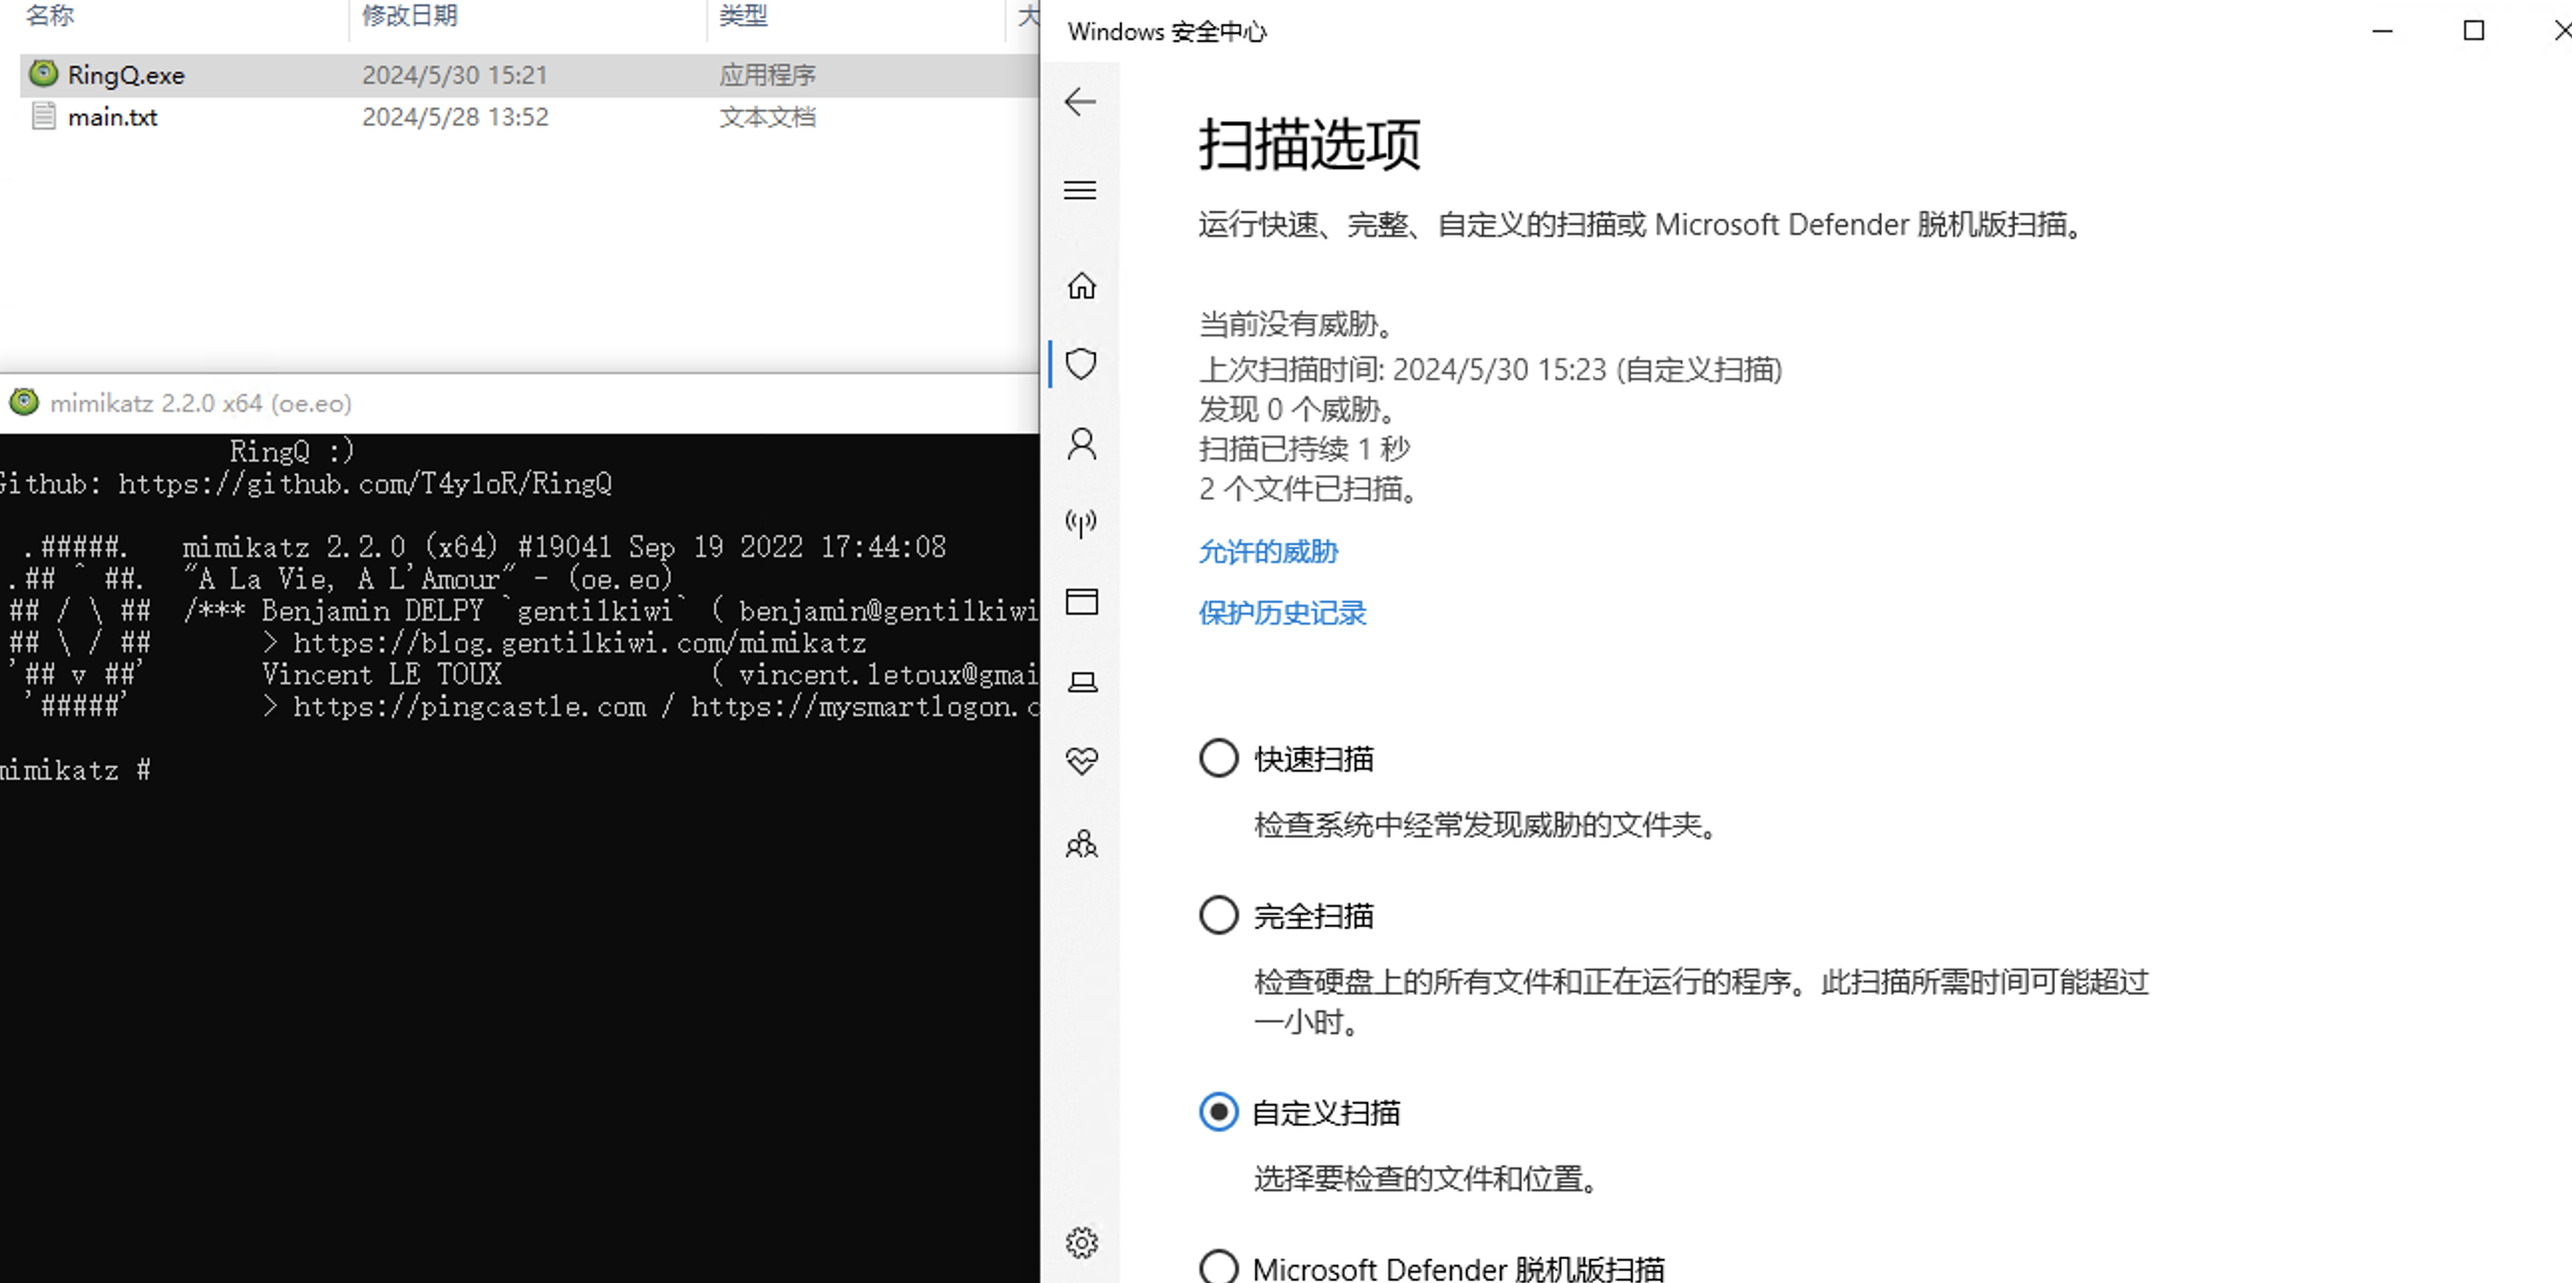
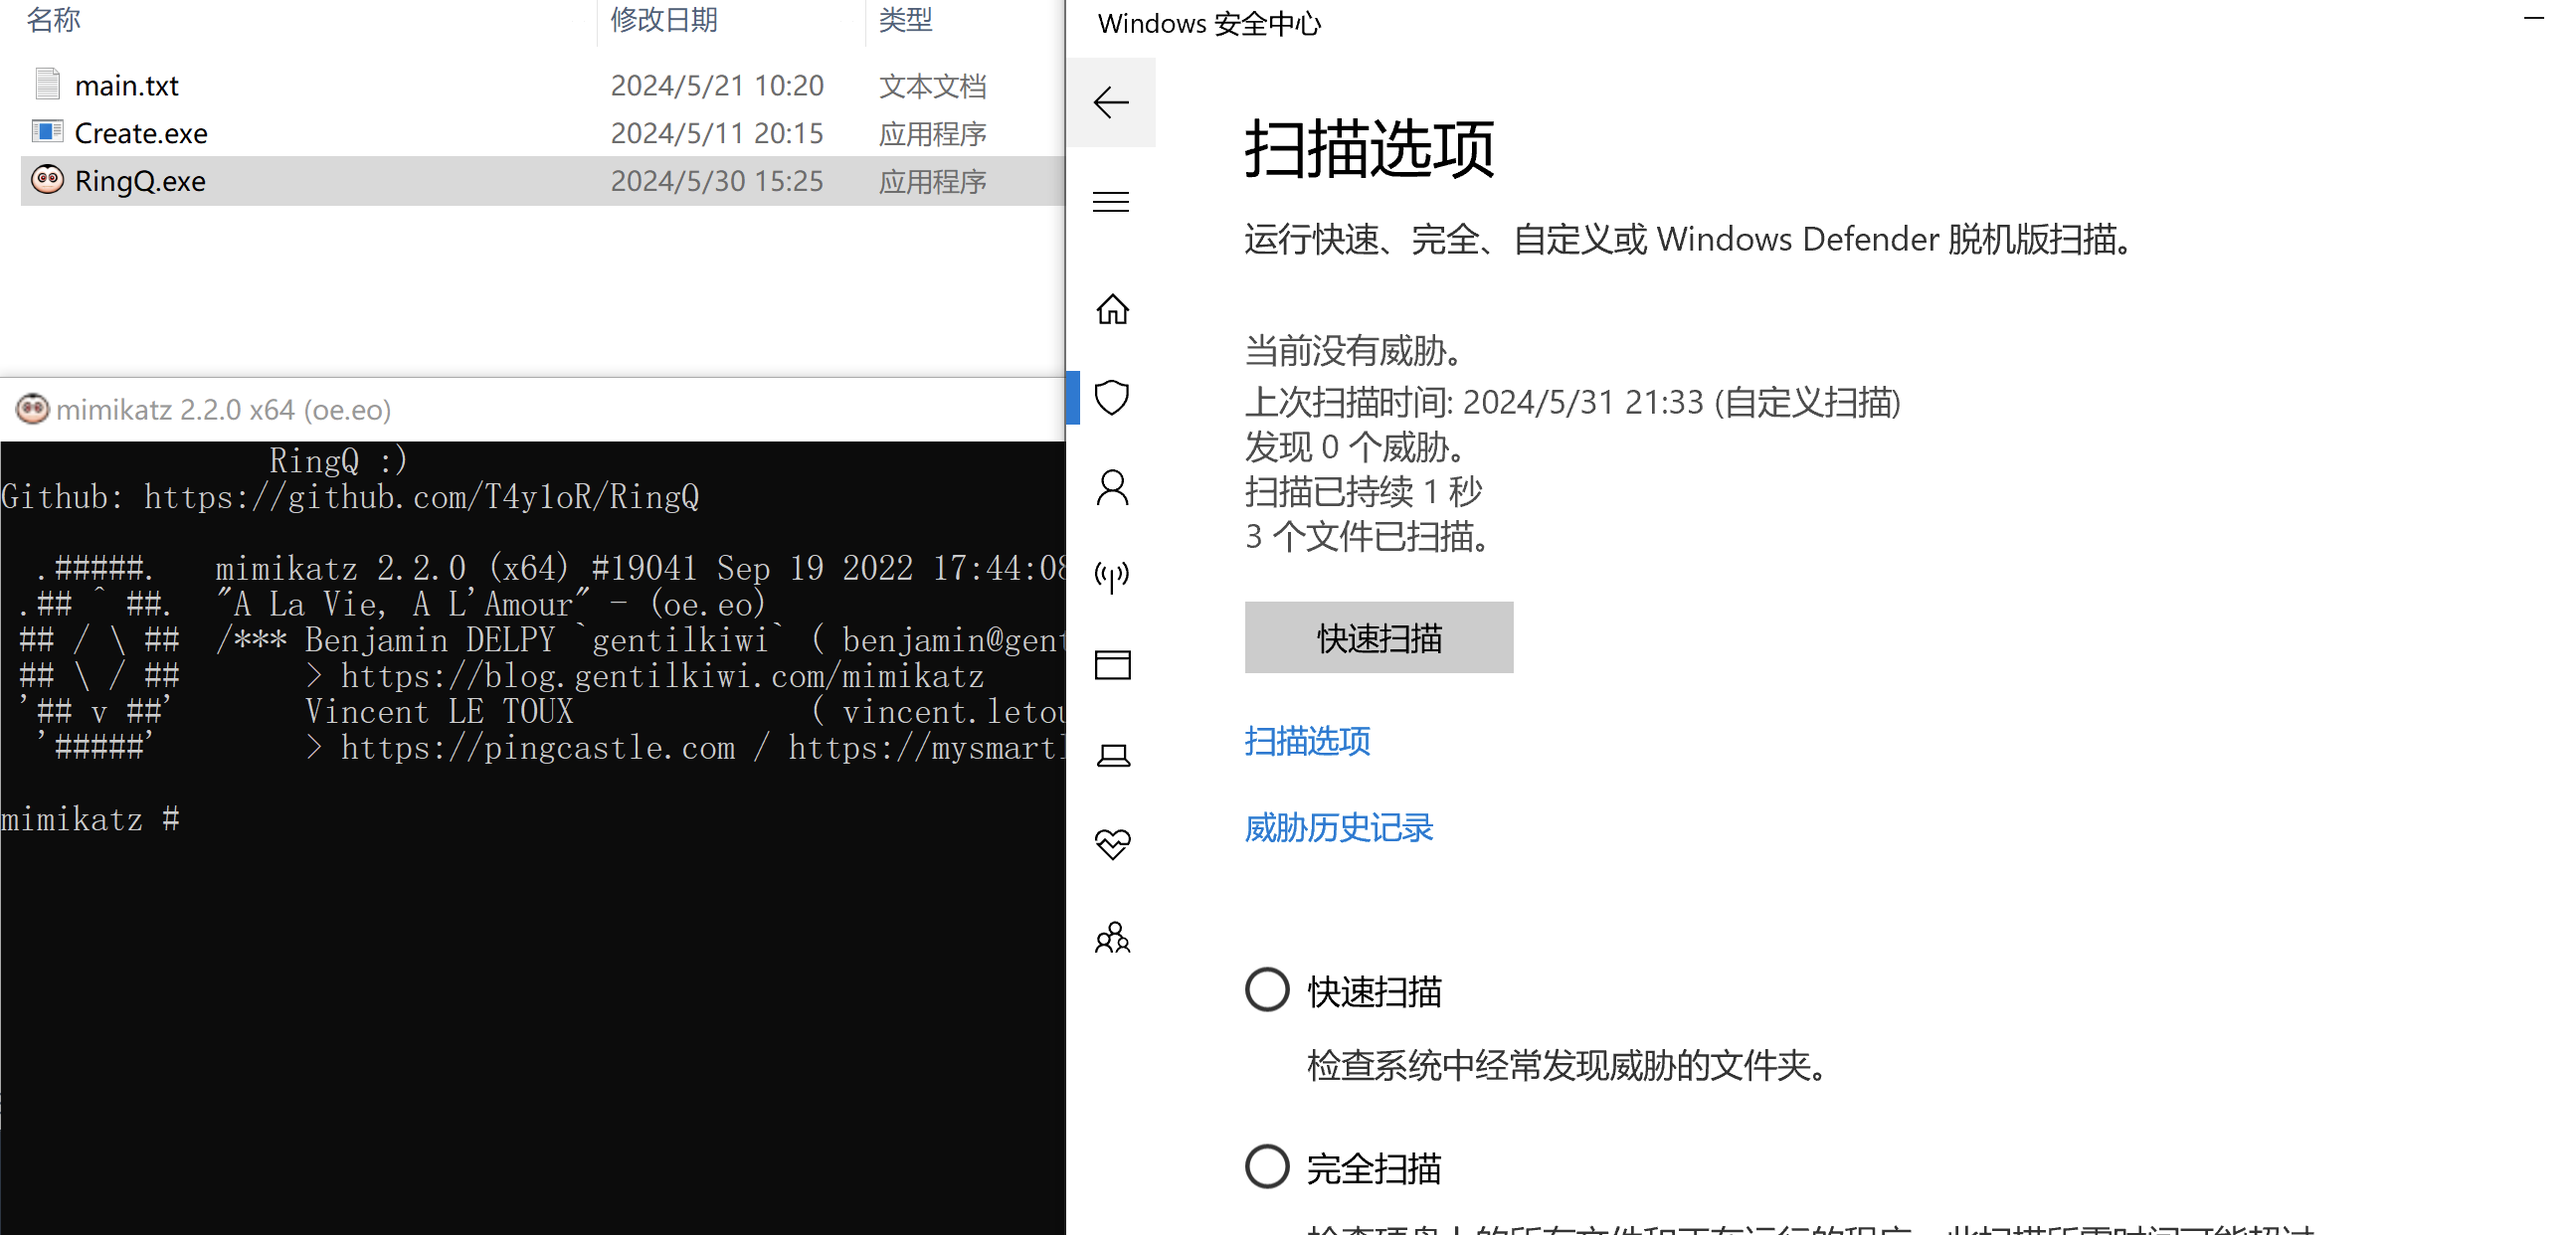
20240531

diff --git a/README.md b/README.md
@@ -56,14 +56,14 @@
 
 ### **微步**
 ![](images/image-20240511162750465.png)
-### **360**（2024.05.30更新）
+### **360**（2024.05.31更新）
 ![](images/360.png)
 ![](images/image-20240511165253870.png)
 
-### **Windows Defender**（2024.05.30更新）
+### **Windows Defender**（2024.05.31更新）
 ![](images/DF.png)
 
-### **火绒6.0**（2024.05.30更新）
+### **火绒6.0**（2024.05.31更新）
 ![](images/hr.png)
 
 ### **卡巴斯基**（2024.05.22更新）
@@ -101,6 +101,8 @@
 
 
 ### 更新日志
+
+2024.05.31  360QVM202报毒 已更新
 
 2024.05.30  360QVM202报毒 已更新，新增CS shellcode加载上线
 
